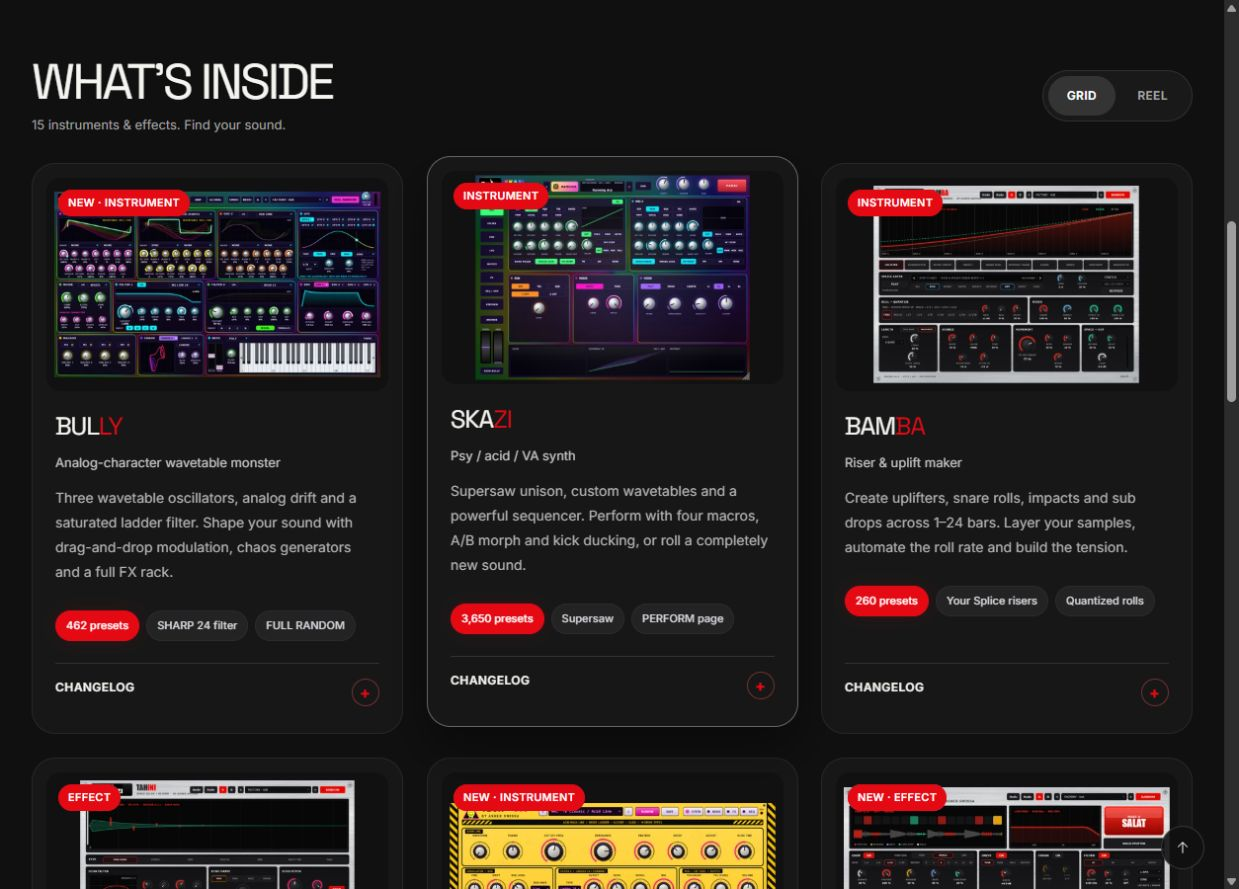
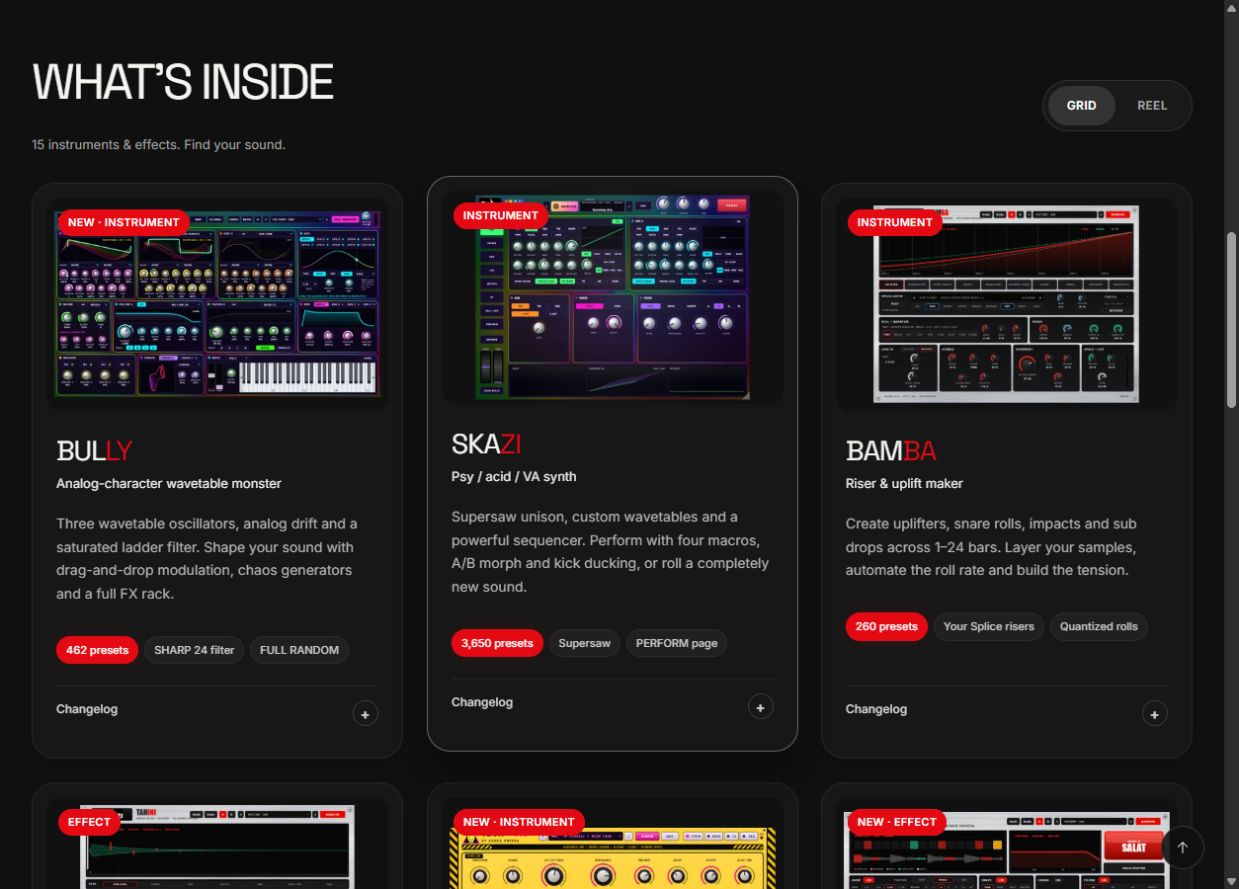
Refine responsive hero proportions and gallery reading hierarchy

diff --git a/docs/site-experience.css b/docs/site-experience.css
@@ -329,3 +329,68 @@ footer .wrap{font-size:12px}
  .hero .ctas{margin:0 0 24px}
  .hero .hero-info-trigger{margin-top:24px}
 }
+
+/* Responsive proportions and a consistent reading hierarchy. */
+.hero .wrap{width:min(1320px,calc(100% - 64px));gap:clamp(28px,4vw,64px)}
+.hero .wrap>div:first-child{min-width:0}
+.hero .hero-statement{font-size:clamp(32px,3.2vw,46px);line-height:1.12;letter-spacing:-.045em}
+.hero .lead{max-width:46ch;font-size:15px;line-height:1.75}
+.hero .ctas{gap:12px;flex-wrap:wrap}
+.hero .daw-compat{row-gap:12px}
+#plugins.film-enhanced>.wrap{width:min(1320px,calc(100% - 64px))}
+#plugins.film-enhanced .head{margin-bottom:28px;gap:20px;align-items:center}
+#plugins .film-gallery[data-view="grid"] .grid{gap:24px}
+#plugins .film-gallery[data-view="grid"] .card{padding:14px;box-shadow:0 8px 24px #00000014}
+#plugins .film-gallery[data-view="grid"] .body{padding:24px 10px 10px;gap:0}
+#plugins .film-gallery[data-view="grid"] h3{font-size:28px;line-height:1.15;margin:0 0 8px;letter-spacing:-.035em}
+#plugins .film-gallery[data-view="grid"] .sub{font-size:13px;line-height:1.5;color:#ededed;margin:0 0 18px}
+#plugins .film-gallery[data-view="grid"] .body>p{font-size:14px;line-height:1.7;color:#b5b5b5;margin:0 0 22px}
+#plugins .film-gallery[data-view="grid"] .chips{gap:6px;margin:0 0 22px}
+#plugins .film-gallery[data-view="grid"] .chip{font-size:11px;padding:5px 9px;background:#202020;border-color:#ffffff0d;color:#c8c8c8}
+#plugins .film-gallery[data-view="grid"] .chip.hot{color:#fff;background:var(--acid);border-color:var(--acid)}
+#plugins .film-gallery[data-view="grid"] .card-changelog{border-color:#ffffff12;margin-top:auto}
+.card-changelog summary{font-size:12px;font-weight:500;letter-spacing:0;text-transform:none;color:#d8d8d8;min-height:48px;padding:14px 0 0}
+.card-changelog summary:after{width:24px;height:24px;flex-basis:24px;border-color:#ffffff26;color:#ccc;font-size:14px}
+.card-changelog summary:hover,.card-changelog[open] summary{color:#fff}
+.card-changelog[open] summary:after{border-color:var(--acid);color:var(--acid)}
+.card-changelog p{font-size:13px;line-height:1.75;color:#bcbcbc;padding:14px 0 2px}
+@media(min-width:701px) and (max-width:1100px){
+ .hero .wrap{grid-template-columns:minmax(0,1fr) minmax(0,1fr);gap:24px;width:calc(100% - 48px)}
+ .hero h1.hero-logo{max-width:100%;margin-bottom:26px}
+ .hero .hero-statement{font-size:clamp(28px,3.7vw,38px)}
+ .hero .lead{font-size:14px;margin-bottom:24px}
+ .hero .artist-shot{height:clamp(520px,70svh,760px);min-height:0}
+ .hero .ctas a{padding-inline:12px;font-size:13px}
+ .hero .persona-caption b,.hero .persona-zone-asher .persona-caption b{font-size:clamp(18px,2.2vw,24px)}
+ .hero .persona-caption small{font-size:10px;line-height:1.4;letter-spacing:0}
+ .hero .persona-zone{padding-inline:8px}
+ .hero .hero-info-trigger{font-size:11px;padding-inline:14px}
+}
+@media(min-width:601px) and (max-width:700px){
+ .hero .wrap{grid-template-columns:1fr;max-width:560px}
+ .hero h1.hero-logo{max-width:360px}
+ .hero .artist-shot{height:420px;min-height:0;margin-top:32px}
+}
+@media(max-width:700px){
+ .hero .wrap,#plugins.film-enhanced>.wrap{width:calc(100% - 40px)}
+ #plugins.film-enhanced .head{align-items:flex-start;gap:18px}
+ #plugins .head h2{font-size:34px}
+ #plugins .film-gallery[data-view="grid"] .grid{gap:20px}
+ #plugins .film-gallery[data-view="grid"] .body{padding:20px 6px 8px}
+}
+@media(max-width:600px){
+ .hero .hero-statement{font-size:clamp(27px,7.7vw,38px)}
+ .hero .lead{font-size:14px;max-width:42ch}
+ .hero h1.hero-logo{max-width:320px}
+ .hero .ctas a{padding-inline:14px}
+ #plugins.film-enhanced .head{grid-template-columns:1fr}
+ .gallery-view{justify-self:start}
+}
+@media(max-width:380px){
+ .hero .wrap,#plugins.film-enhanced>.wrap{width:calc(100% - 32px)}
+ .hero .ctas{gap:8px}.hero .ctas a{padding-inline:10px;font-size:13px}
+ .daw-icons{gap:6px}.daw-icons li{width:34px;height:34px;flex-basis:34px}
+ .hero .hero-info-trigger{font-size:11px;padding-inline:14px}
+}
+
+@media(max-width:650px){#plugins .film-gallery[data-view="grid"] .grid{grid-template-columns:1fr}}

diff --git a/docs/review/QA-FOLLOWUP.md b/docs/review/QA-FOLLOWUP.md
@@ -48,4 +48,10 @@ Intro playback no longer uses a stored first-visit preference.
 
 - Artist image and audio controls are hidden at widths up to 600px; verified hidden at 390px and visible at 768px. Switching into phone layout disables and stops playback.
 - Phone Hero retains downloads, DAW compatibility and guide, with no horizontal overflow in the checked 390px viewport.
-- Intro adds layered red orbit rings and a soft logo reveal without increasing the existing dwell time. Reloads stay subdued; Skip and reduced-motion styles remain.
+- Intro adds layered red orbit rings and a soft logo reveal with a 2.1-second opening dwell and 650ms reload dwell. Reloads stay subdued; Skip and reduced-motion styles remain.
+
+## Responsive hierarchy pass
+
+- Checked 360, 390, 600, 768, 1024 and 1440px viewport widths in Chromium; no horizontal overflow in these checks. Phone artist remains hidden through 600px, visible at 768px.
+- Grid uses one column through 650px, two through 1000px, then three. Tablet Hero uses balanced columns, constrained headings and wrapping download controls.
+- Card titles and roles lead the reading order; descriptions, subdued feature tags and separated changelog rows use consistent spacing. Full descriptions remain visible. Changelog opening verified on narrow mobile.
